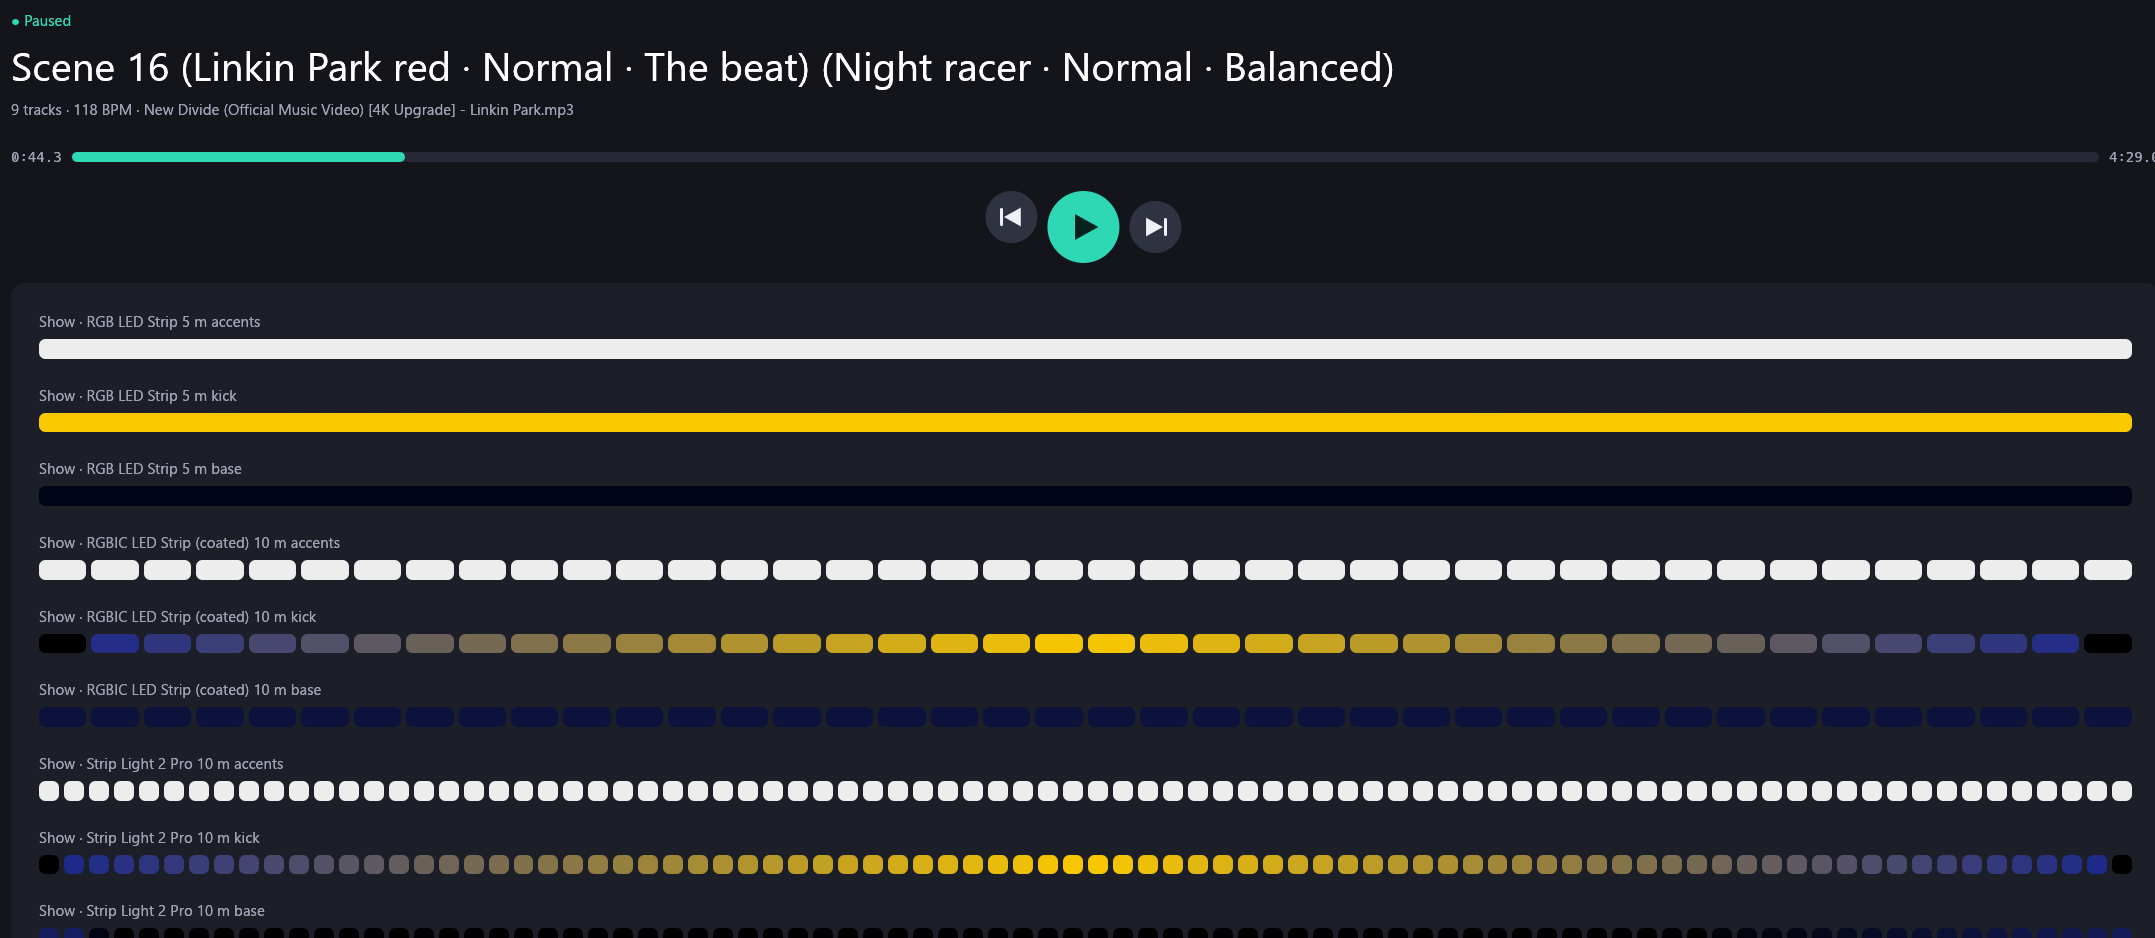
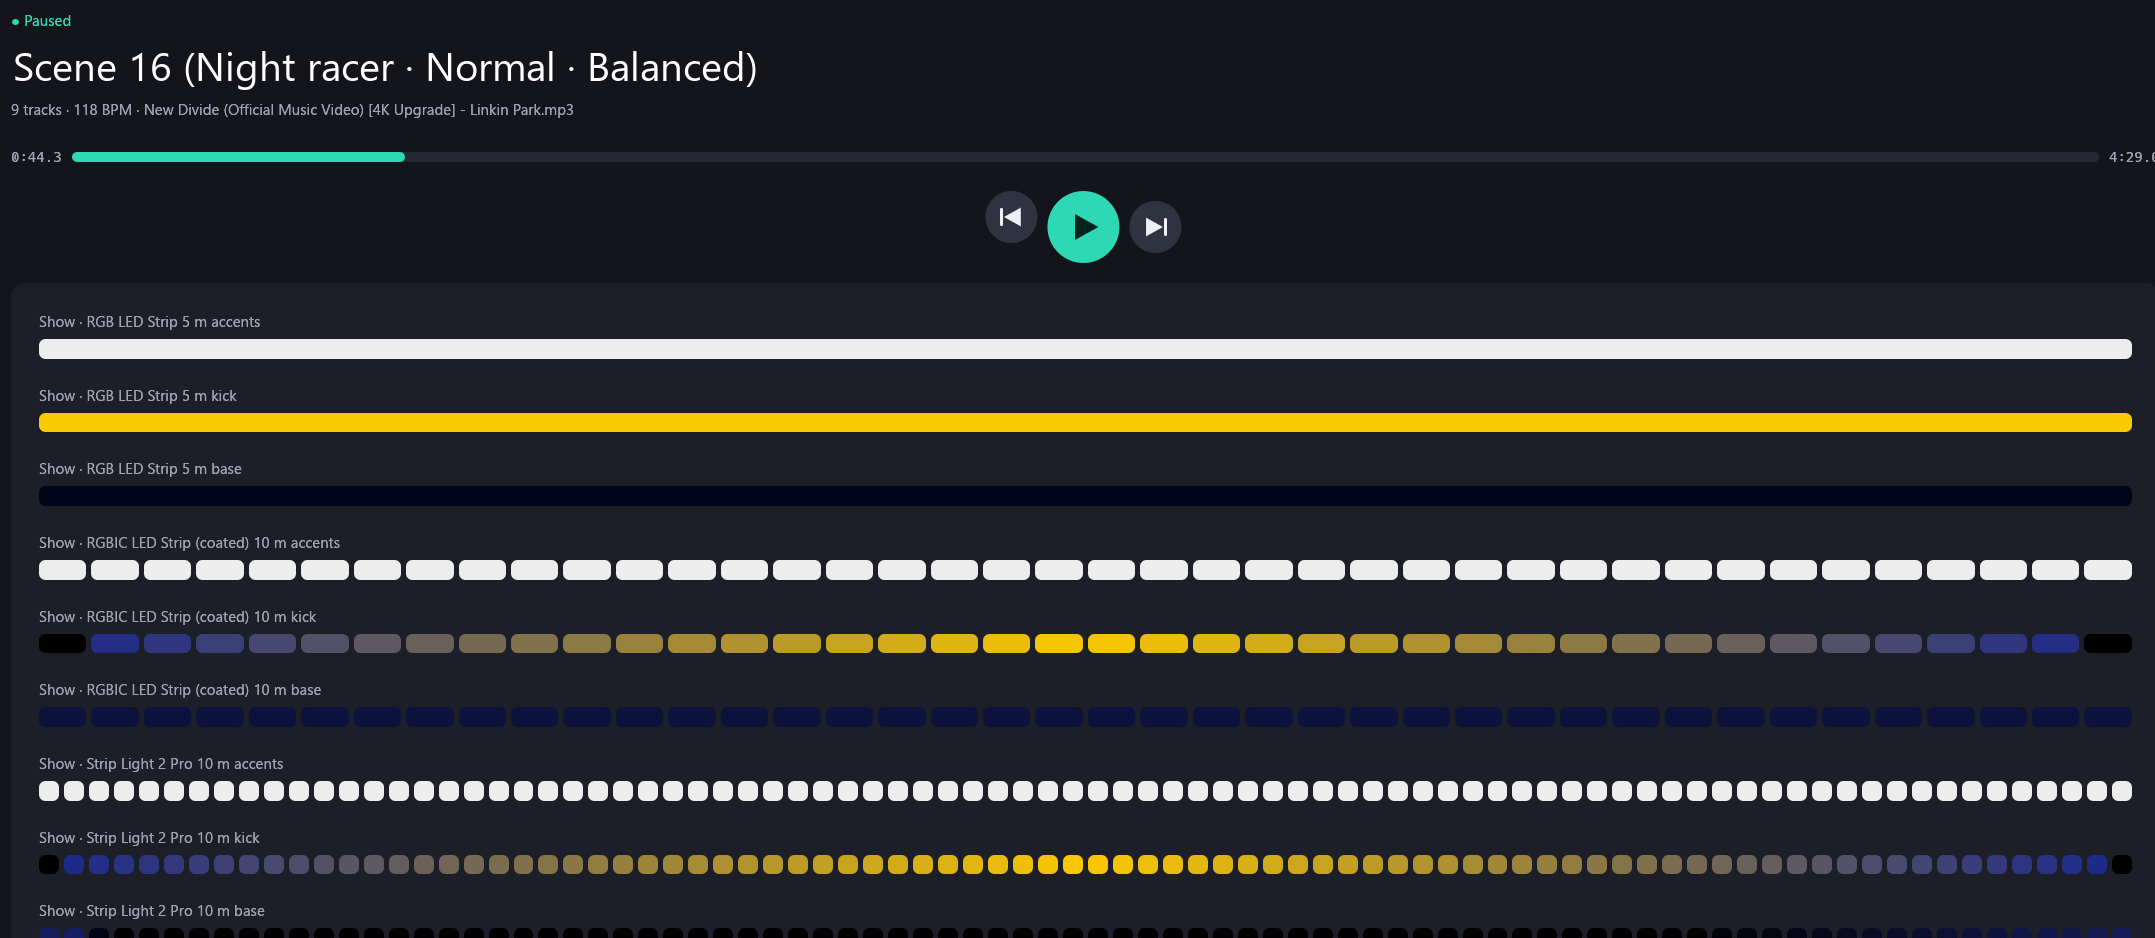
Colour sets: Racing green, Blood red (no brand names); building from a built scene replaces its name suffix; screenshots updated

Changed region(s): [[0.0, 0.0618, 0.6529, 0.0928]]

diff --git a/src-tauri/src/show.rs b/src-tauri/src/show.rs
@@ -7,8 +7,8 @@ use crate::scene::{Clip, Track};
 
 /// Name, then deep (dark base), main, alt (second colour), hot (kick / accent).
 pub const PALETTES: [(&str, [[u8; 3]; 4]); 20] = [
-    ("Aston Martin", [[0x00, 0x3a, 0x30], [0x00, 0x66, 0x5e], [0xce, 0xdc, 0x00], [0xce, 0xdc, 0x00]]),
-    ("Linkin Park red", [[0x2a, 0x00, 0x00], [0xc8, 0x10, 0x2e], [0xff, 0x4a, 0x00], [0xff, 0x4a, 0x00]]),
+    ("Racing green", [[0x00, 0x3a, 0x30], [0x00, 0x66, 0x5e], [0xce, 0xdc, 0x00], [0xce, 0xdc, 0x00]]),
+    ("Blood red", [[0x2a, 0x00, 0x00], [0xc8, 0x10, 0x2e], [0xff, 0x4a, 0x00], [0xff, 0x4a, 0x00]]),
     ("Electric", [[0x00, 0x0a, 0x3a], [0x00, 0x50, 0xff], [0x00, 0xe5, 0xff], [0xff, 0x00, 0x66]]),
     ("Sunset", [[0x2a, 0x0a, 0x3a], [0xff, 0x2a, 0x6d], [0xff, 0xb0, 0x00], [0x7c, 0x6c, 0xff]]),
     ("Ice", [[0x00, 0x14, 0x2a], [0x2f, 0xd8, 0xb4], [0xff, 0xff, 0xff], [0x7c, 0x6c, 0xff]]),

diff --git a/src-tauri/src/app.rs b/src-tauri/src/app.rs
@@ -594,7 +594,12 @@ impl App {
         }).collect();
         o.seed = std::time::SystemTime::now().duration_since(std::time::UNIX_EPOCH).map_or(1, |d| d.as_nanos() as u64);
         let mut s = self.sc().clone();
-        s.name = format!("{} ({} · {} · {})", s.name, show::PALETTES[o.pal].0, show::SPEEDS[o.speed], show::FOCUS[o.focus]);
+        // Building from a built scene: replace its "(colours · speed · focus)", don't stack another.
+        let base = match s.name.find(" (") {
+            Some(i) if s.name.ends_with(')') && s.name[i..].contains(" · ") => s.name[..i].to_string(),
+            _ => s.name.clone(),
+        };
+        s.name = format!("{} ({} · {} · {})", base, show::PALETTES[o.pal].0, show::SPEEDS[o.speed], show::FOCUS[o.focus]);
         s.tracks = show::build(&an, s.len, &lights, o);
         self.scenes.push(s);
         self.dirty = true;
